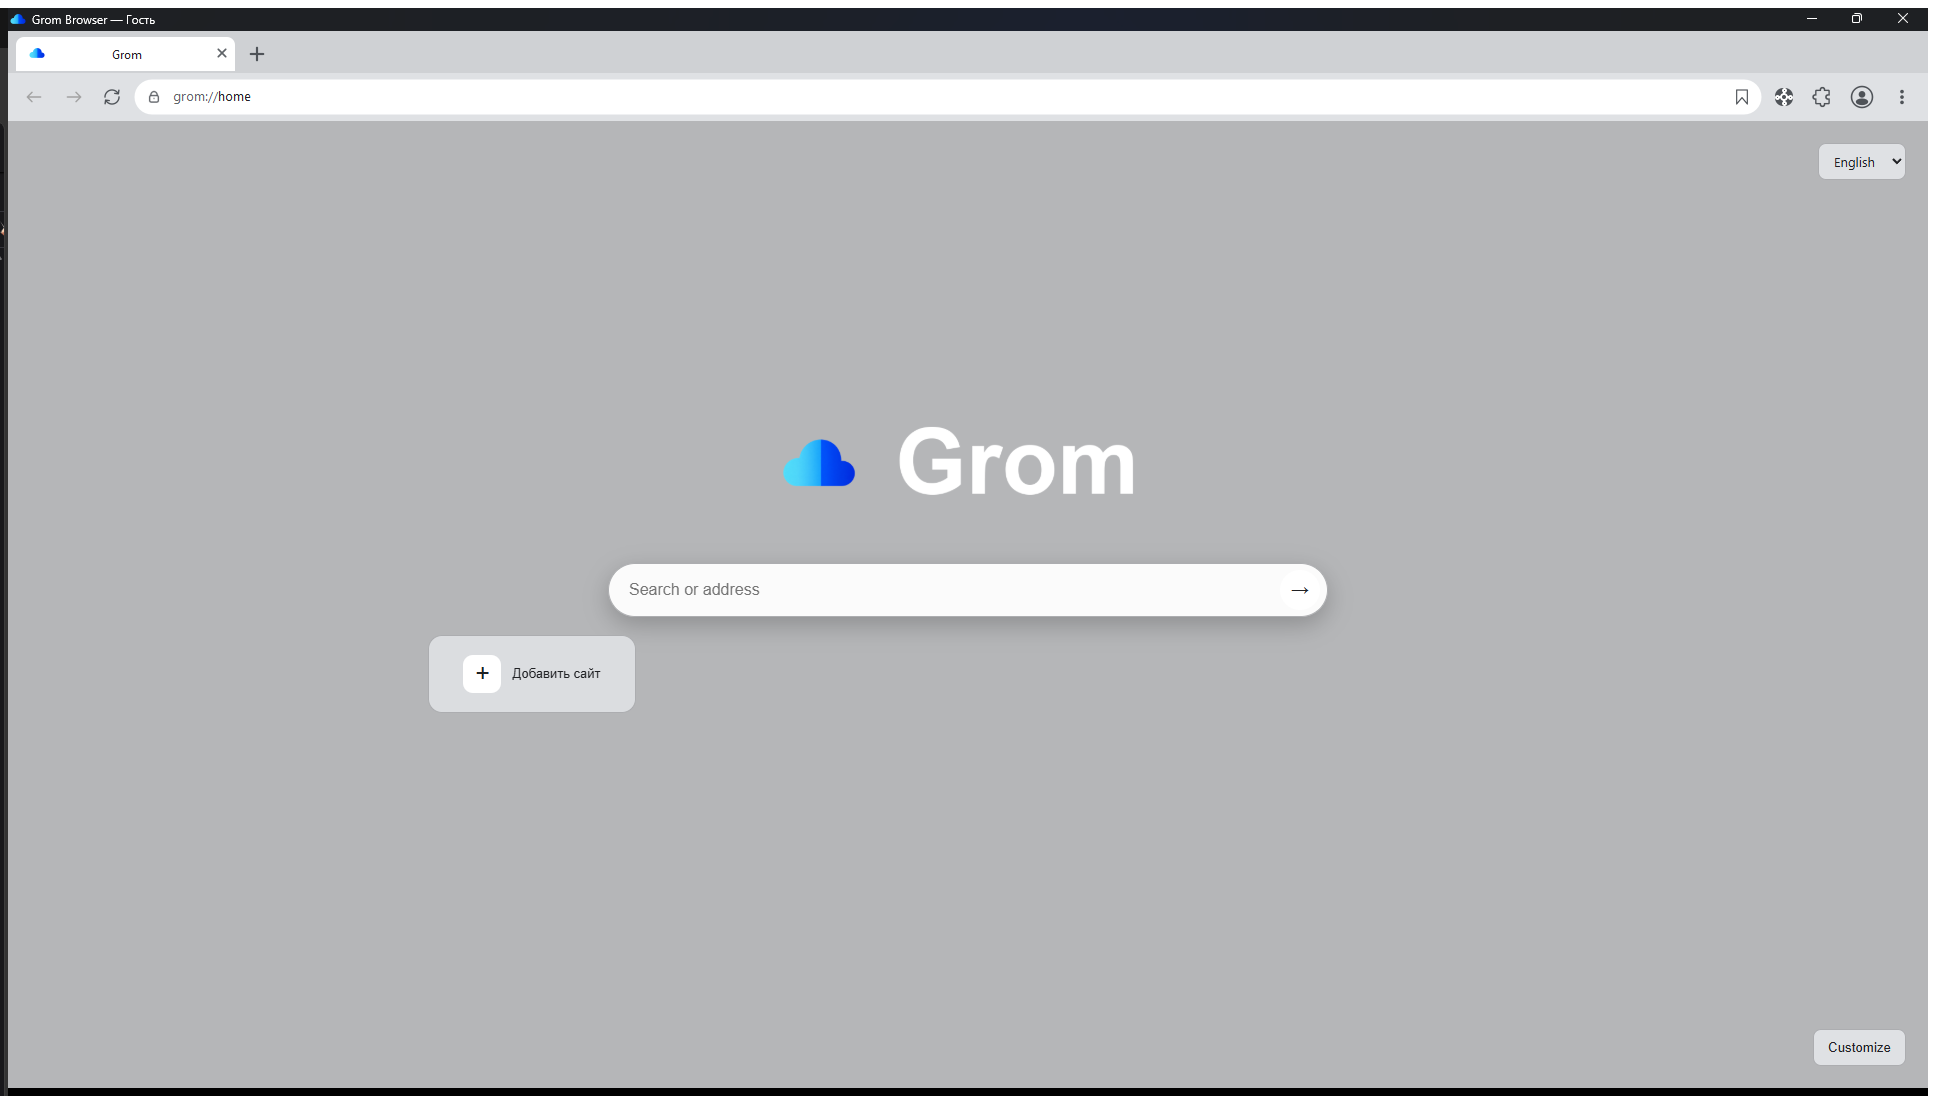
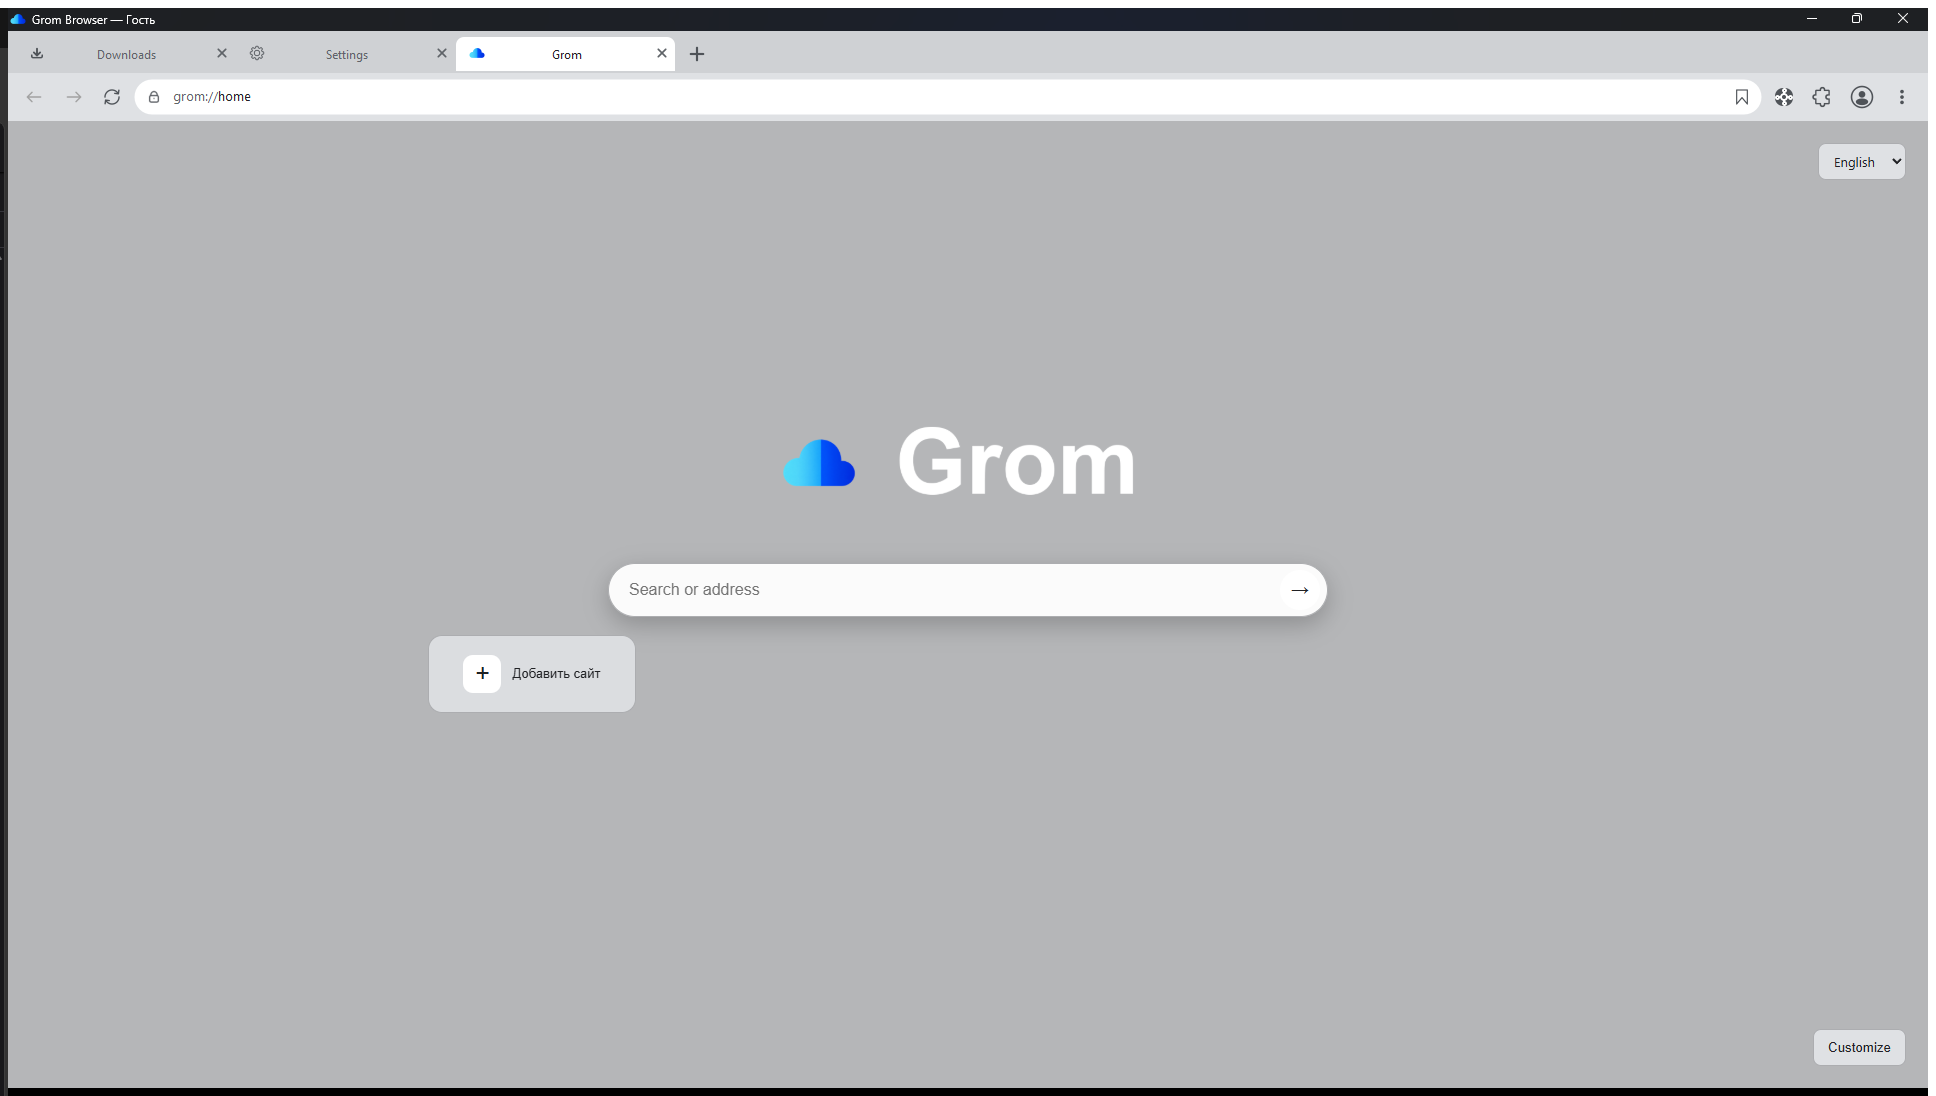
Add browser screenshots and expand README

Changed region(s): [[0.2169, 0.031, 0.3719, 0.062], [0.0, 0.031, 0.124, 0.062]]

diff --git a/README.md b/README.md
@@ -51,6 +51,20 @@ Enable or disable tools from the browser's extensions menu:
 
 Site-specific behavior can change when third-party websites update.
 
+## Screenshots
+
+| Start page | Browser settings |
+| --- | --- |
+| <img src="docs/screenshots/browser-home.png" alt="Grom Browser start page" width="480"> | <img src="docs/screenshots/browser-settings.png" alt="General browser settings" width="480"> |
+
+| Privacy controls | Built-in extensions |
+| --- | --- |
+| <img src="docs/screenshots/browser-privacy.png" alt="Privacy and site permission settings" width="480"> | <img src="docs/screenshots/browser-extensions.png" alt="Built-in extensions menu" width="480"> |
+
+| Downloads | Browser menu |
+| --- | --- |
+| <img src="docs/screenshots/browser-downloads.png" alt="Downloads page" width="480"> | <img src="docs/screenshots/browser-menu.png" alt="Browser menu and shortcuts" width="480"> |
+
 ### Tools and customization
 
 - Page translation, screenshots, developer tools, and site information.
